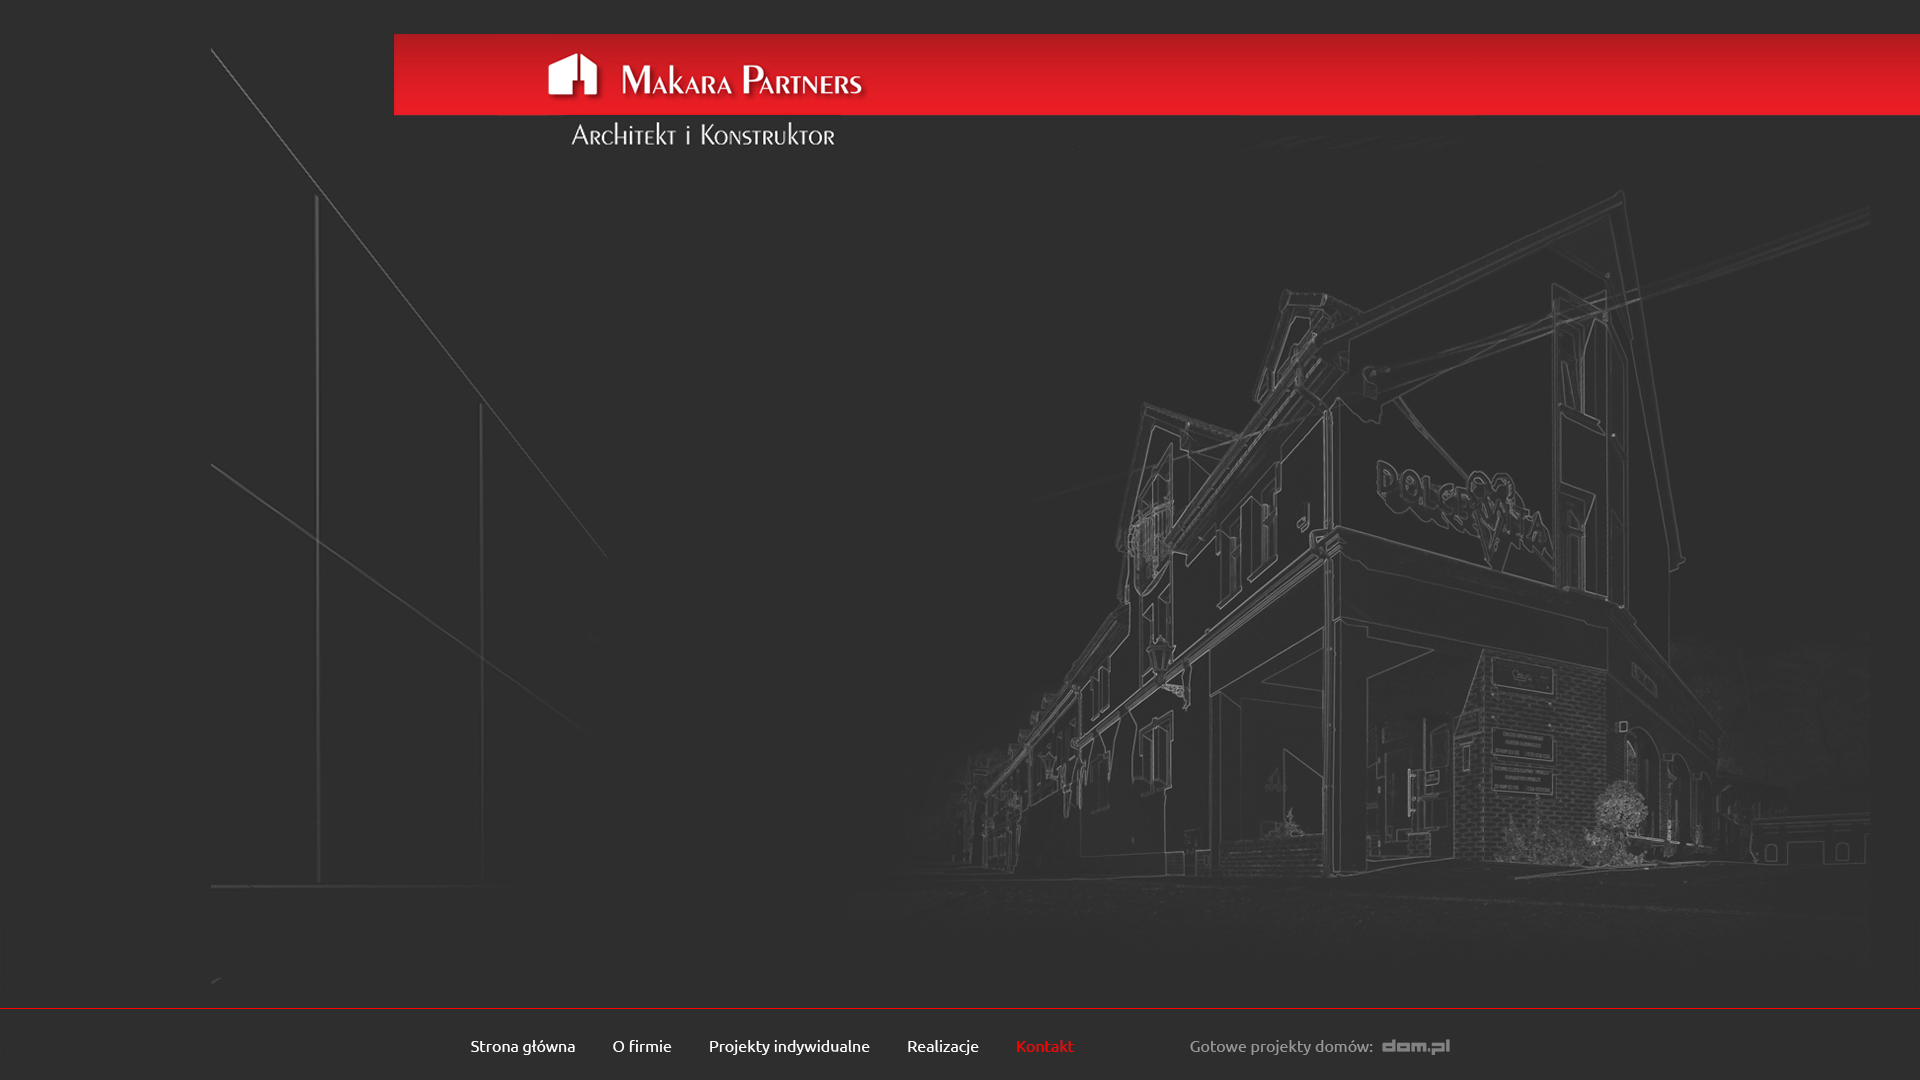
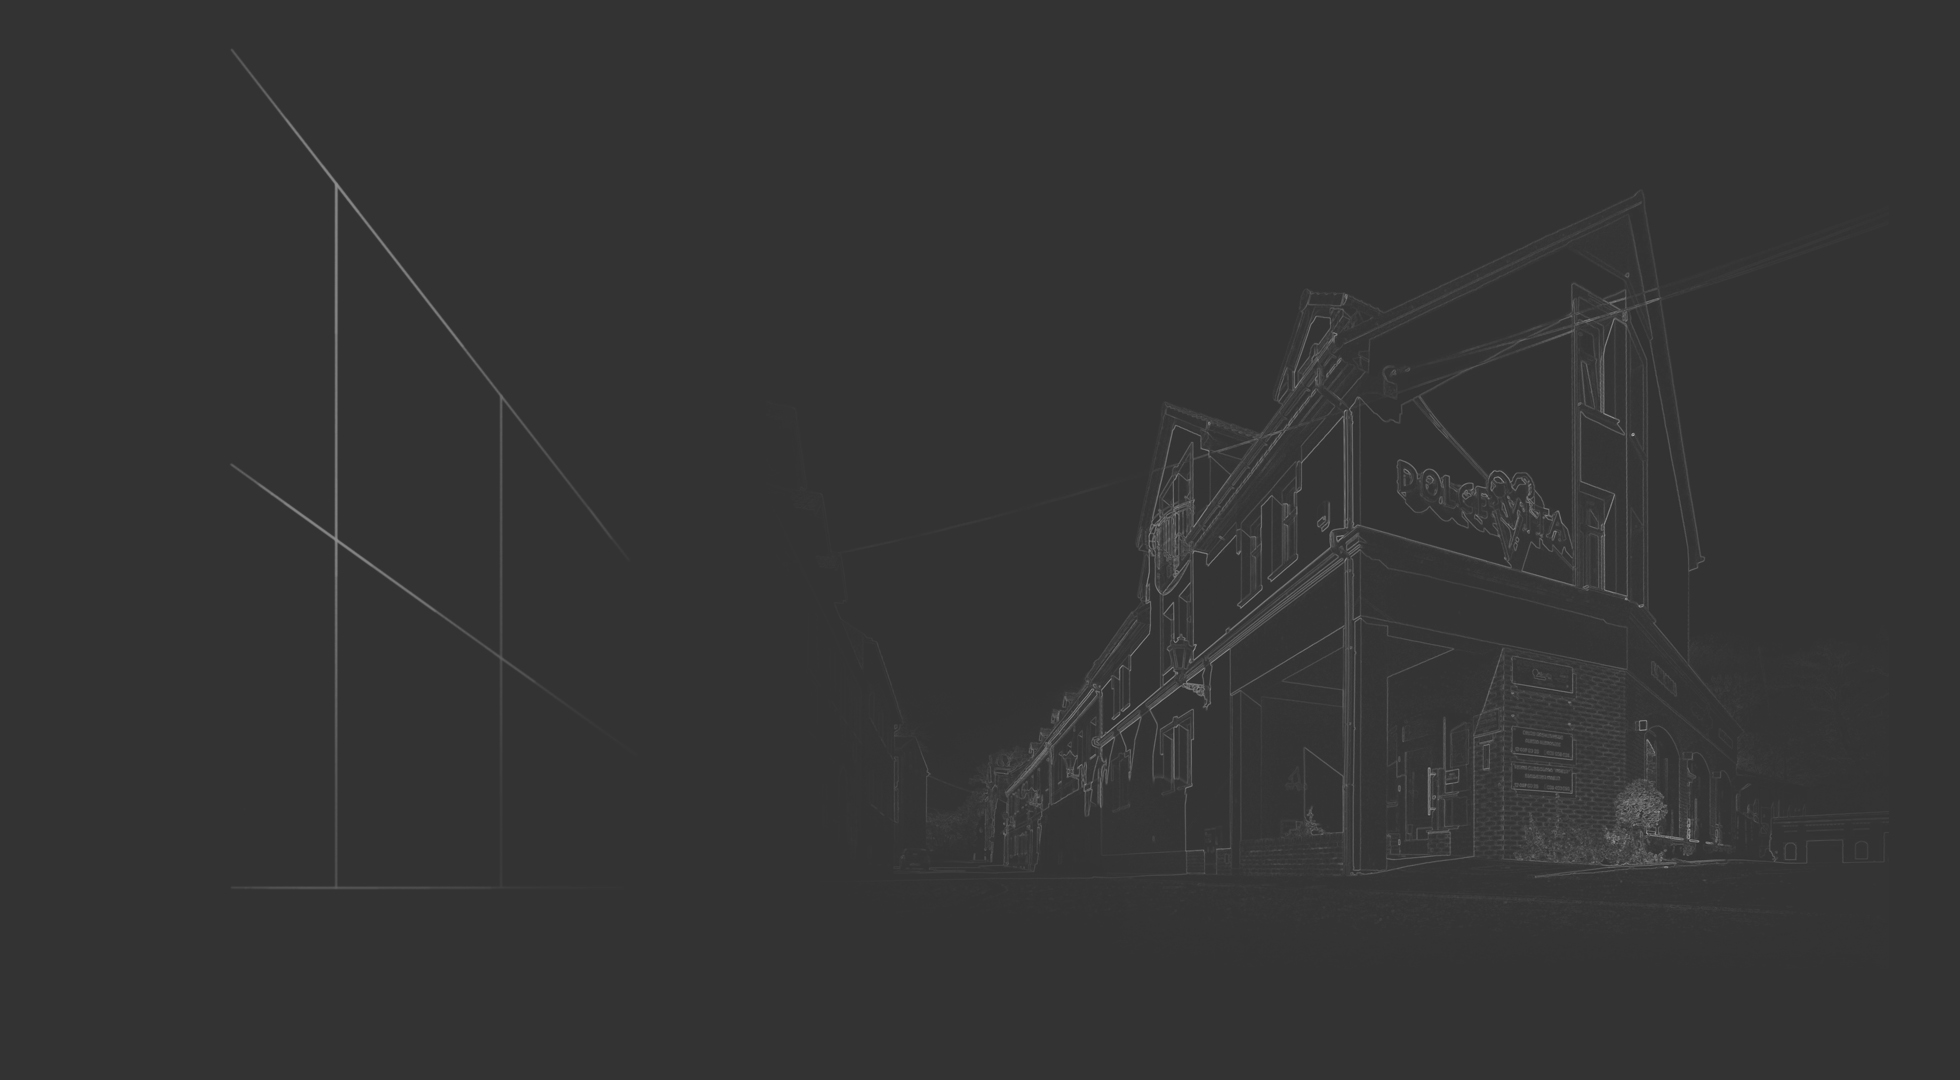
added gradient

diff --git a/app/homePage/index.html b/app/homePage/index.html
@@ -9,7 +9,9 @@
     <link href="css/app.css" rel="stylesheet" type="text/css">
 </head>
 <body ng-app="homePage">
-<div ng-controller="homePageCtrl as homePageCtrl">
+<div class="main-part" ng-controller="homePageCtrl as homePageCtrl">
+    <gradient-directive></gradient-directive>
+
 
 </div>
 <script src="js/bower-components.min.js"></script>

diff --git a/app/directives/gradientDirective/gradientDirective.js b/app/directives/gradientDirective/gradientDirective.js
@@ -1,0 +1,13 @@
+angular.module('gradient.directive', [])
+    .directive('gradientDirective', function(){
+        return {
+            restrict:'E',
+            scope:{
+
+            },
+            template:'<div class="gradient"></div>',
+            controller:function(){
+
+            }
+        }
+    });

diff --git a/app/homePage/homePage.js b/app/homePage/homePage.js
@@ -1,4 +1,7 @@
-angular.module('homePage', ['footer.directive'])
+angular.module('homePage', [
+    'footer.directive',
+    'gradient.directive'
+])
     .controller('homePageCtrl', function(){
         console.log('yes');
     });

diff --git a/app/directives/footerDirective.js b/app/directives/footerDirective.js
@@ -5,7 +5,7 @@ angular.module('footer.directive', [])
            scope:{
 
            },
-           template:'test',
+           //template:,
            controller:function(){
 
            }

diff --git a/app/directives/gradientDirective/gradientDirective.css b/app/directives/gradientDirective/gradientDirective.css
@@ -1,0 +1,7 @@
+.gradient{
+    height:50px;
+    background: #B22022;
+    background: linear-gradient(to bottom, #B22022, #EB2125);
+    padding: 10px;
+    border: 1px solid #333;
+}

diff --git a/app/main.css b/app/main.css
@@ -1,0 +1,7 @@
+.main-part{
+    background: url(../images/background_image.jpg) no-repeat;
+    background-size: cover;
+    position: fixed;
+    width: 100%;
+    height: 100%;
+}
